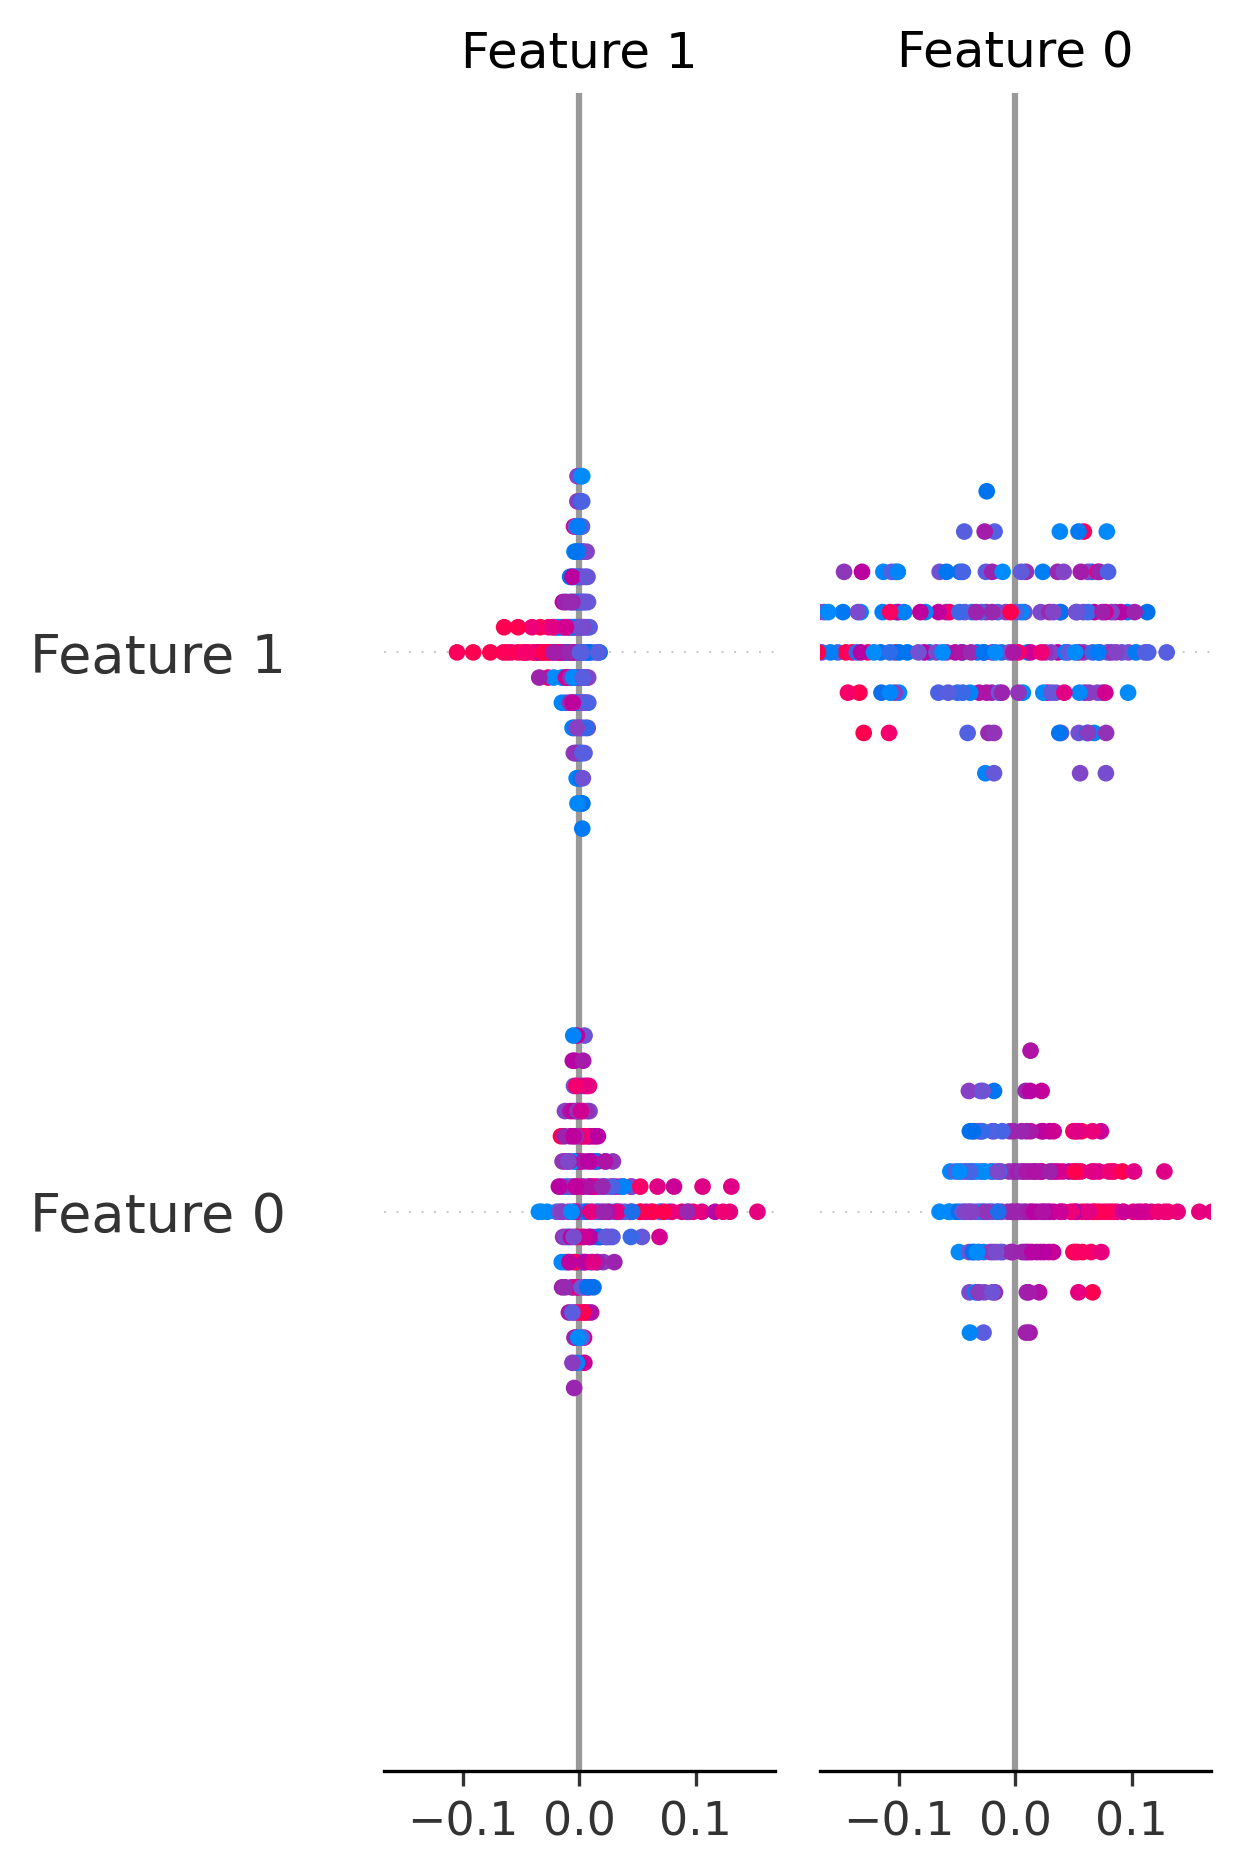
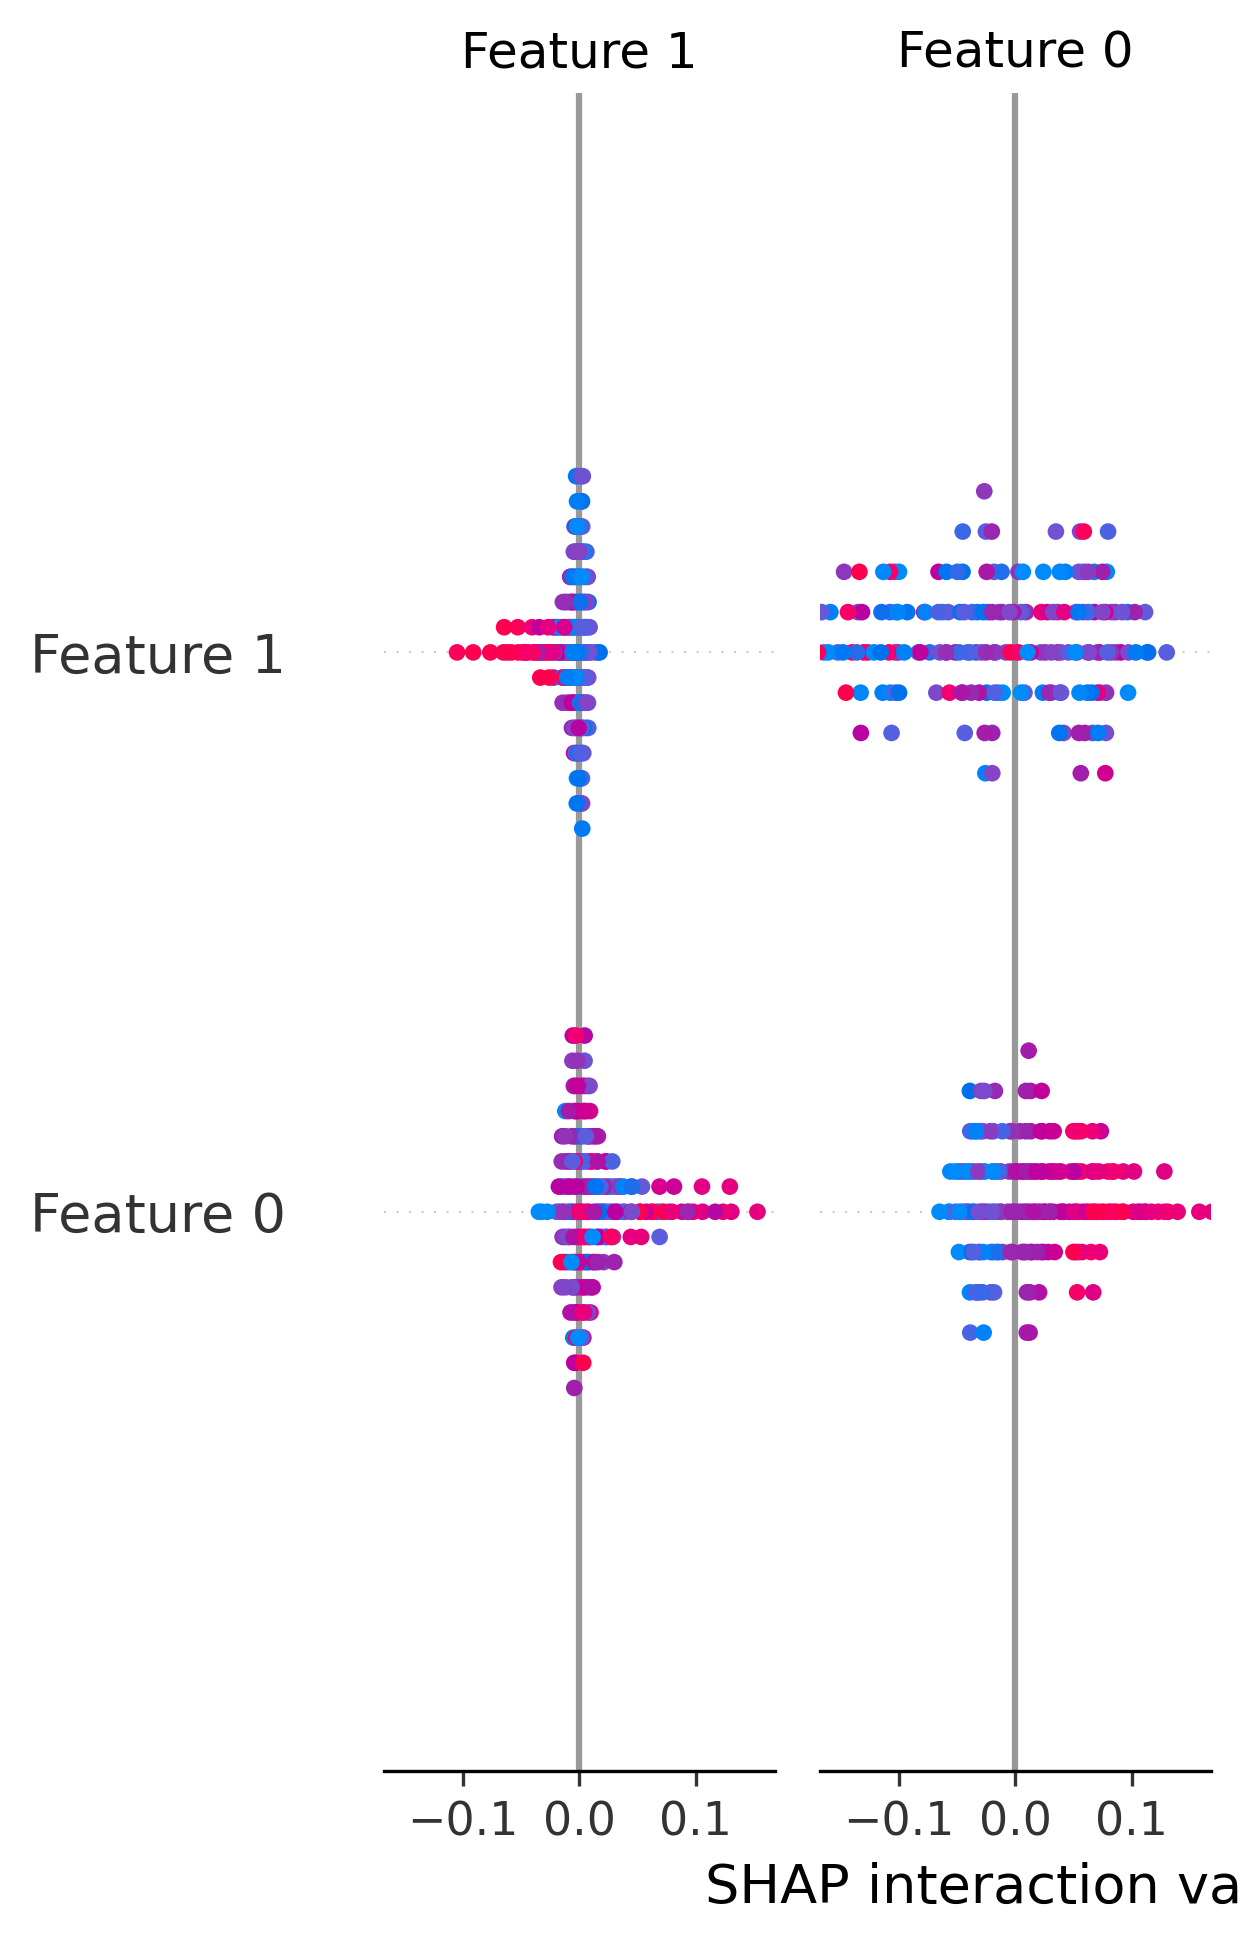
ready for submission

diff --git a/main_run.py b/main_run.py
@@ -1,16 +1,24 @@
-# main_run.py
-from data_utils import load_qsar_data, split_data , scale_features
-from visualization import plot_feature_distribution , plot_feature_importance
-from models import train_logistic_regression , train_svm , train_random_forest , train_gradient_boosting
-from evaluation import evaluate_model , get_feature_importance
+# data handling utilities
+from data_utils import load_qsar_data, split_data, scale_features
 
-from evaluation import compute_shap_values
+# visualization functions
+from visualization import plot_feature_distribution, plot_feature_importance
 from visualization import plot_shap_summary
 
+# model training functions
+from models import train_logistic_regression, train_svm, train_random_forest, train_gradient_boosting
+
+# model evaluation and interpretation functions
+from evaluation import evaluate_model, get_feature_importance, compute_shap_values
+
+
+# load QSAR biodegradability dataset
 X, y = load_qsar_data("QSAR_data.mat")
+
+# split data into training and test sets
 X_train, X_test, y_train, y_test = split_data(X, y)
 
-
+# display dataset information
 print("X shape:", X.shape)
 print("y shape:", y.shape)
 print(
@@ -20,11 +28,16 @@ print(
 print("Train shape:", X_train.shape)
 print("Test shape:", X_test.shape)
 
+
+# standardize features (mean=0, std=1) for linear models
 X_train_s, X_test_s, scaler = scale_features(X_train, X_test)
 
+# verify scaling was applied correctly
 print("Feature mean (train):", X_train_s.mean())
 print("Feature std (train):", X_train_s.std())
 
+
+# plot original feature distribution (before scaling)
 plot_feature_distribution(
     X_train,
     feature_idx=0,
@@ -32,6 +45,7 @@ plot_feature_distribution(
     filename="feature1_original.png"
 )
 
+# plot scaled feature distribution (after standardization)
 plot_feature_distribution(
     X_train_s,
     feature_idx=0,
@@ -39,37 +53,52 @@ plot_feature_distribution(
     filename="feature1_scaled.png"
 )
 
-log_reg = train_logistic_regression(X_train_s, y_train)
-log_results = evaluate_model(log_reg, X_test_s, y_test)
 
+# train logistic regression on scaled features
+log_reg = train_logistic_regression(X_train_s, y_train)
+
+# evaluate model performance
+log_results = evaluate_model(log_reg, X_test_s, y_test)
 print("Logistic Regression Results:", log_results)
 
-svm_model = train_svm(X_train_s, y_train)
-svm_results = evaluate_model(svm_model, X_test_s, y_test)
 
+# train SVM on scaled features
+svm_model = train_svm(X_train_s, y_train)
+
+# evaluate model performance
+svm_results = evaluate_model(svm_model, X_test_s, y_test)
 print("SVM Results:", svm_results)
 
-rf_model = train_random_forest(X_train, y_train)
-rf_results = evaluate_model(rf_model, X_test, y_test)
 
+# train Random Forest on original (unscaled) features
+rf_model = train_random_forest(X_train, y_train)
+
+# evaluate model performance
+rf_results = evaluate_model(rf_model, X_test, y_test)
 print("Random Forest Results:", rf_results)
 
+# extract and visualize top 10 most important features
 top_idx, top_imp = get_feature_importance(rf_model, top_n=10)
 plot_feature_importance(top_idx, top_imp, "rf_feature_importance.png")
-
 print("Top 10 important feature indices:", top_idx)
 
-gb_model = train_gradient_boosting(X_train, y_train)
-gb_results = evaluate_model(gb_model, X_test, y_test)
 
+# train Gradient Boosting on original (unscaled) features
+gb_model = train_gradient_boosting(X_train, y_train)
+
+# evaluate model performance
+gb_results = evaluate_model(gb_model, X_test, y_test)
 print("Gradient Boosting Results:", gb_results)
 
+
+# compute SHAP values to explain Random Forest predictions
+# SHAP values show how each feature contributes to individual predictions
 shap_values, X_shap = compute_shap_values(
     rf_model,
     X_train,
     X_test
 )
 
+# generate summary plot showing feature impact on predictions
 plot_shap_summary(shap_values, X_shap, "shap_summary_rf.png")
-
 print("SHAP summary plot saved.")

diff --git a/models.py b/models.py
@@ -4,18 +4,28 @@ from sklearn.ensemble import RandomForestClassifier
 from sklearn.ensemble import GradientBoostingClassifier
 
 
-
 def train_logistic_regression(X_train, y_train):
+    """
+    Trains a Logistic Regression classifier with balanced class weights.
+    """
+    # initialize logistic regression with increased iterations for convergence
     model = LogisticRegression(
         max_iter=2000,
         class_weight="balanced",
         random_state=42
     )
+    
+    # fit model to training data
     model.fit(X_train, y_train)
+    
     return model
 
 
 def train_svm(X_train, y_train):
+    """
+    Trains a Support Vector Machine classifier with RBF kernel.
+    """
+    # initialize SVM with RBF kernel for non-linear decision boundaries
     model = SVC(
         kernel="rbf",
         C=1.0,
@@ -23,10 +33,18 @@ def train_svm(X_train, y_train):
         class_weight="balanced",
         random_state=42
     )
+    
+    # fit model to training data
     model.fit(X_train, y_train)
+    
     return model
 
+
 def train_random_forest(X_train, y_train):
+    """
+    Trains a Random Forest classifier with balanced class weights.
+    """
+    # initialize Random Forest with multiple decision trees
     model = RandomForestClassifier(
         n_estimators=300,
         max_depth=None,
@@ -35,15 +53,26 @@ def train_random_forest(X_train, y_train):
         random_state=42,
         n_jobs=-1
     )
+    
+    # fit model to training data
     model.fit(X_train, y_train)
+    
     return model
 
+
 def train_gradient_boosting(X_train, y_train):
+    """
+    Trains a Gradient Boosting classifier with conservative hyperparameters.
+    """
+    # initialize Gradient Boosting with sequential tree building
     model = GradientBoostingClassifier(
         n_estimators=200,
         learning_rate=0.05,
         max_depth=3,
         random_state=42
     )
+    
+    # fit model to training data
     model.fit(X_train, y_train)
+    
     return model

diff --git a/evaluation.py b/evaluation.py
@@ -1,32 +1,49 @@
-import shap
 import numpy as np
+import shap
 from sklearn.metrics import accuracy_score, balanced_accuracy_score
 
+
 def evaluate_model(model, X_test, y_test):
+    """
+    Evaluates a trained model on test data.
+    """
     y_pred = model.predict(X_test)
     return {
         "accuracy": accuracy_score(y_test, y_pred),
         "balanced_accuracy": balanced_accuracy_score(y_test, y_pred)
     }
 
+
 def get_feature_importance(model, top_n=10):
+    """
+    Extracts top N most important features from a tree-based model.
+    """
+    # get importance scores from the model
     importances = model.feature_importances_
+    
+    # sort indices by importance in descending order and select top N
     indices = np.argsort(importances)[::-1][:top_n]
+    
     return indices, importances[indices]
+
 
 def compute_shap_values(model, X_background, X_explain, max_samples=200):
     """
     Computes SHAP values for tree-based models in a robust way.
     """
+    # initialize SHAP explainer for tree-based models
     explainer = shap.TreeExplainer(model)
 
+    # limit the number of samples to explain for computational efficiency
     X_subset = X_explain[:max_samples]
 
+    # compute SHAP values for the subset
     shap_values = explainer.shap_values(X_subset)
 
-    # Handle different SHAP output formats
+    # handle different SHAP output formats based on problem type
     if isinstance(shap_values, list):
-        # Binary classification → take class 1 (biodegradable)
+        # binary classification case → SHAP returns a list with values for each class
+        # take class 1 (biodegradable) for interpretation
         shap_values = shap_values[1]
 
     return shap_values, X_subset

diff --git a/data_utils.py b/data_utils.py
@@ -1,4 +1,3 @@
-# data_utils.py
 import numpy as np
 from scipy.io import loadmat
 from sklearn.model_selection import train_test_split
@@ -8,9 +7,6 @@ from sklearn.preprocessing import StandardScaler
 def load_qsar_data(mat_path):
     """
     Loads QSAR biodegradability dataset.
-    Returns:
-        X : feature matrix (n_samples, n_features)
-        y : labels (n_samples,)
     """
     data = loadmat(mat_path)
     qsar = data['QSAR_data']
